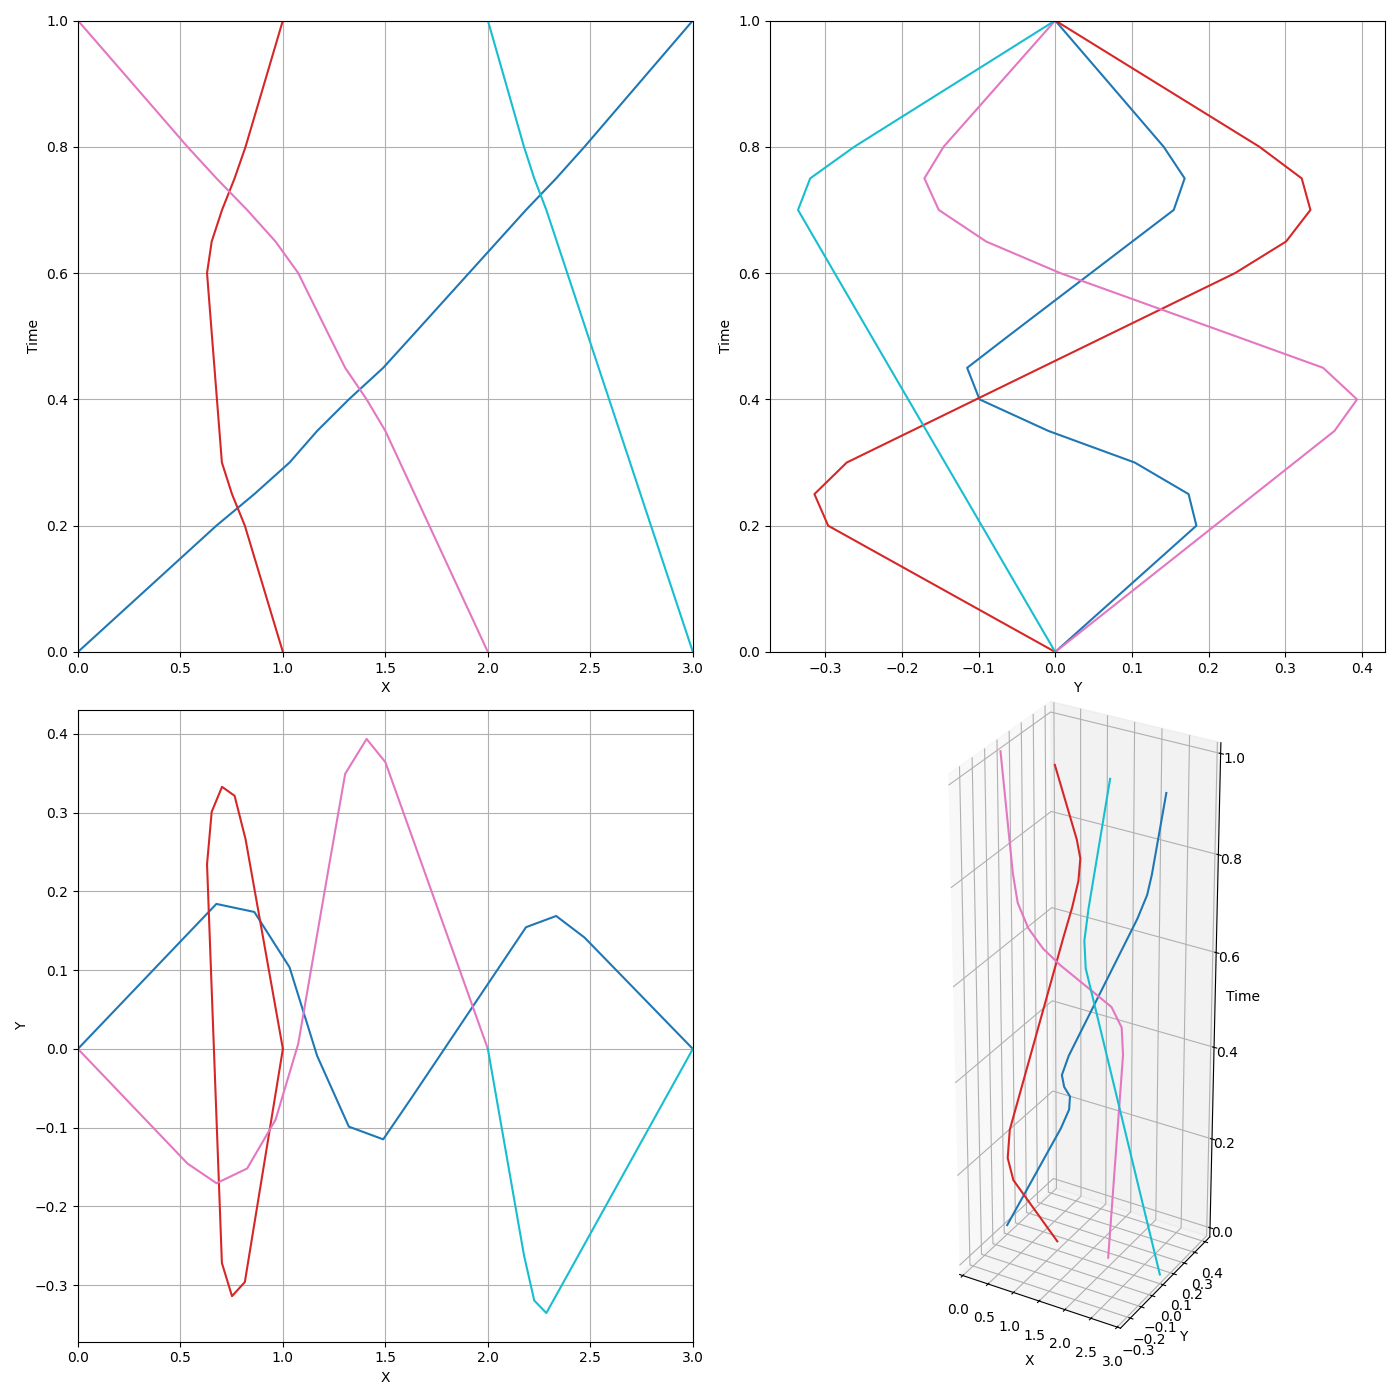
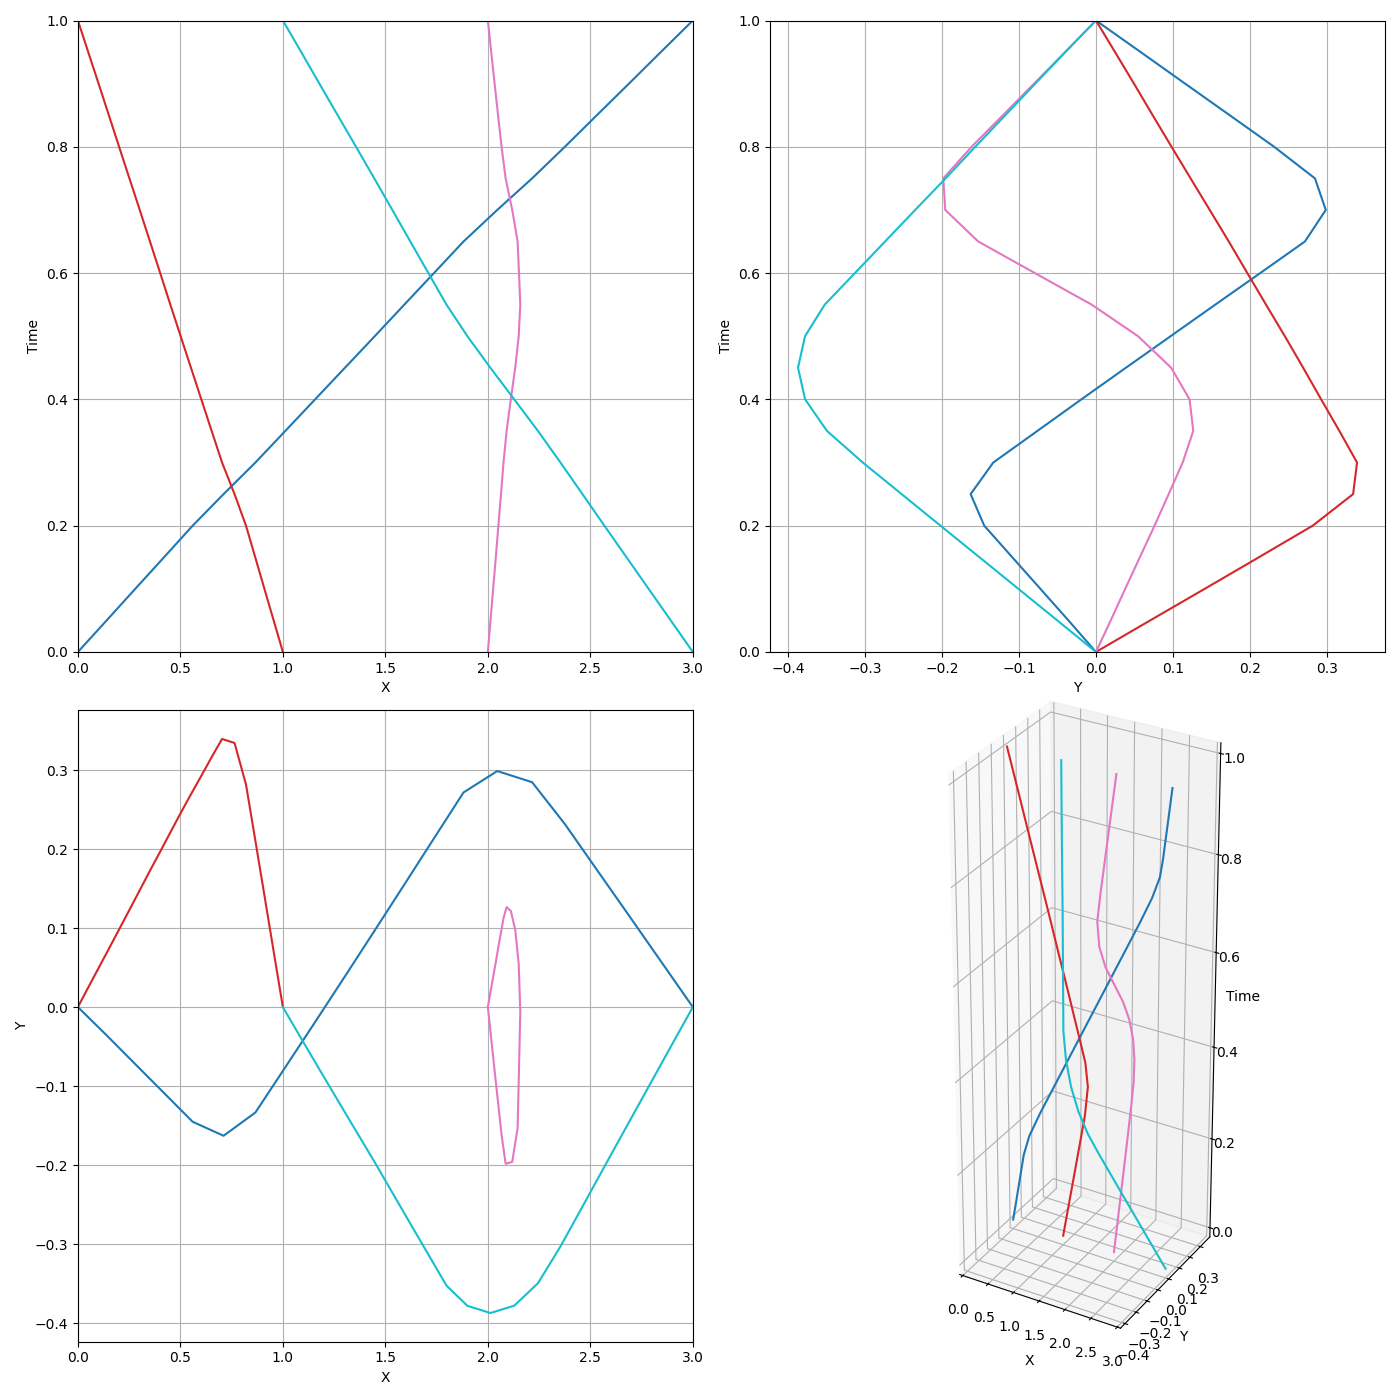
Add animations

diff --git a/utils.py b/utils.py
@@ -1,6 +1,7 @@
 import braid
 import braid_group
 import matplotlib.pyplot as plt
+from matplotlib.animation import FuncAnimation
 import numpy as np
 from typing import List, Tuple
 
@@ -83,3 +84,38 @@ def PlotTrajectories3D(trajectories: List[List[Tuple[float, float]]],
 
   plt.tight_layout()
   plt.savefig(save_file)
+
+def AnimateTrajectories(trajectories: List[List[Tuple[float, float]]], 
+                        save_file: str = 'trajectories.gif'):
+  fig, ax = plt.subplots()
+  num_agents = len(trajectories)
+  colors = plt.cm.tab10(np.linspace(0, 1, num_agents))
+  ax.grid(True)
+  ax.set_xlabel('X')
+  ax.set_ylabel('Y')
+
+  # Set axis limits dynamically.
+  positions = [position for trajectory in trajectories for position in trajectory]
+  min_x = min(position[0] for position in positions)
+  max_x = max(position[0] for position in positions)
+  min_y = min(position[1] for position in positions)
+  max_y = max(position[1] for position in positions)
+  ax.set_xlim(min_x - 0.1, max_x + 0.1)
+  ax.set_ylim(min_y - 0.1, max_y + 0.1)
+
+  # Initialize empty plot objects for trajectories.
+  trajectory_plots = [ax.plot([], [], color=colors[i])[0] for i in range(num_agents)]
+
+  # Function to update the plot for each frame.
+  def update(frame):
+    for i, trajectory in enumerate(trajectories):
+        x, y = zip(*trajectory[:frame+1])  # Unzip x, y positions
+        trajectory_plots[i].set_data(x, y)
+    return trajectory_plots
+
+  # Create the animation object.
+  num_frames = len(trajectories[0])
+  ani = FuncAnimation(fig, update, frames=num_frames, interval=100, blit=True)
+
+  # Save the animation as a GIF.
+  ani.save(save_file, writer='imagemagick')

diff --git a/test_optimize.py b/test_optimize.py
@@ -8,7 +8,7 @@ num_timestamps = 21
 g0 = braid_group.Generator(0) 
 i1 = braid_group.InverseGenerator(1)
 g2 = braid_group.Generator(2)
-word = braid_group.Word(g0.Compose(i1).Compose(g0).Compose(g2))
+word = braid_group.Word(g0.Compose(i1).Compose(g0).Compose(g2).Compose(g0.Inverse()).Compose(i1.Inverse()))
 braid = braid.Braid.Create(word=word, num_strands=num_agents)
 
 initial_trajectories = utils.BraidToTrajectory(braid, num_timestamps)
@@ -20,4 +20,6 @@ for i in range(num_agents):
 
 # Save initial and optimized trajectory.
 utils.PlotTrajectories3D(initial_trajectories, num_timestamps, 'before.png')
+utils.AnimateTrajectories(initial_trajectories, 'before.gif')
 utils.PlotTrajectories3D(optimized_trajectories, num_timestamps, 'after.png')
+utils.AnimateTrajectories(optimized_trajectories, 'after.gif')
